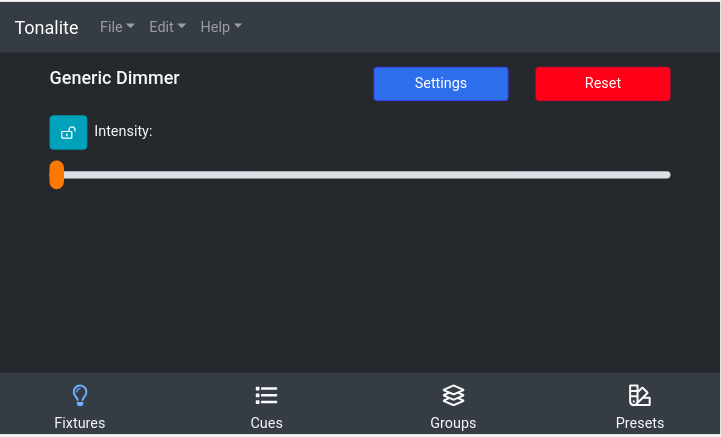
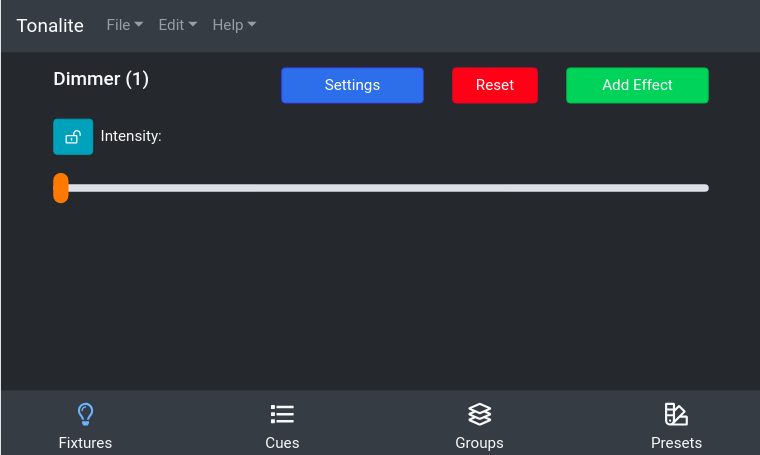
add start of effect docs

diff --git a/docs/fixtures/parameters/README.md b/docs/fixtures/parameters/README.md
@@ -17,3 +17,7 @@ Go to this fixture's settings.
 ### Reset
 
 Reset the parameter values for just this fixture.
+
+### Add Effect
+
+Add an effect to run on the current fixture.
